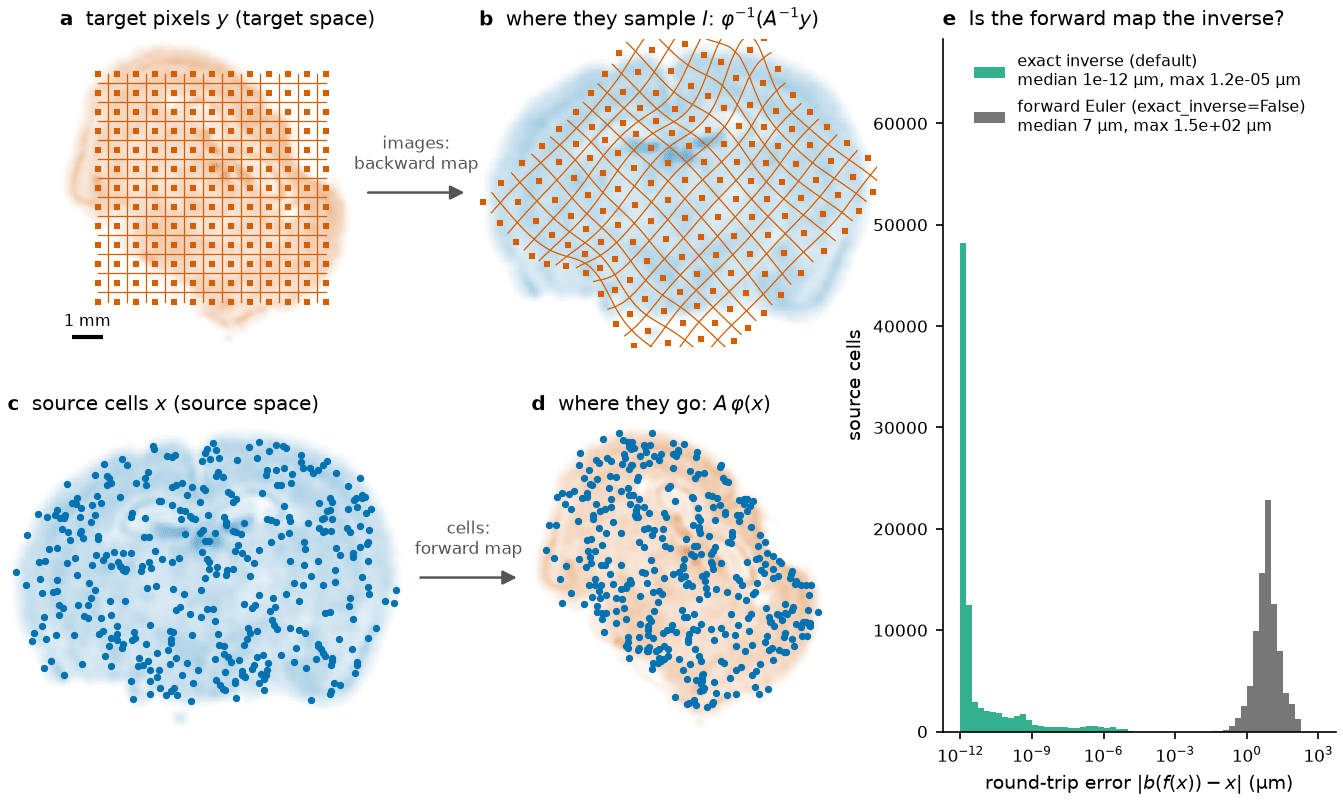
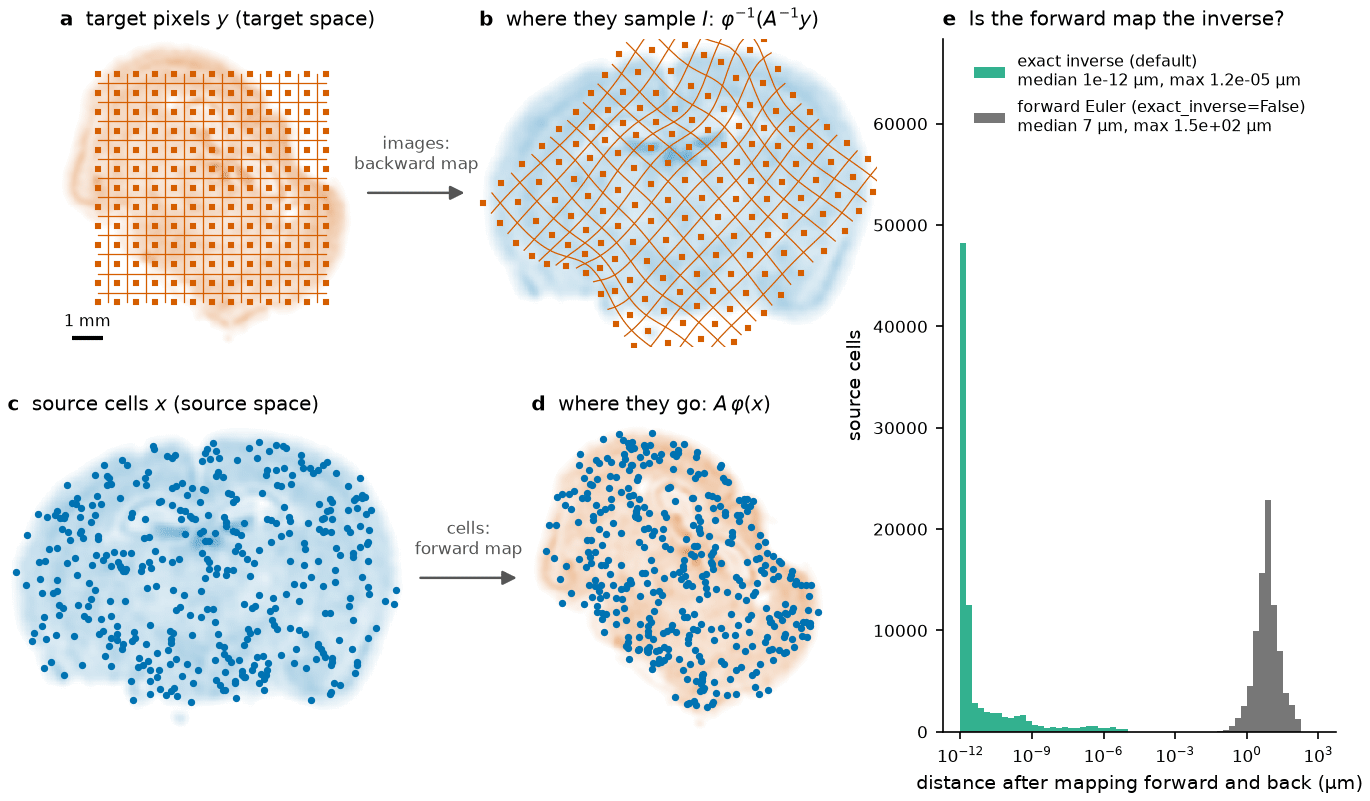
Label the round-trip axis of the maps figure in words
The label |b(f(x)) - x| reused f, which the page uses for the contrast function.

diff --git a/docs/figures/make_figures.py b/docs/figures/make_figures.py
@@ -775,7 +775,7 @@ def fig_maps(d):
     arrow_between(fig, ax3, ax4, text='cells:\nforward map')
     scalebar(ax, loc=(0.04, 0.03))
 
-    # round trip |b(f(x)) - x| over all source cells, exact inverse vs forward Euler
+    # round trip (forward map, then backward map) over all source cells, exact inverse vs forward Euler
     h = fig.add_subplot(gs[:, 2])
     allP = d.cells_I()
     floor = 1e-12
@@ -790,7 +790,7 @@ def fig_maps(d):
         print(f'  round trip, exact_inverse={exact}: median {np.median(e):.3g} um, max {e.max():.3g} um')
     h.set_xscale('log')
     h.set_xticks([1e-12, 1e-9, 1e-6, 1e-3, 1, 1e3])
-    h.set_xlabel(r'round-trip error $|b(f(x)) - x|$ (µm)')
+    h.set_xlabel(r'distance after mapping forward and back (µm)')
     h.set_ylabel('source cells')
     h.set_ylim(0, h.get_ylim()[1] * 1.35)
     h.legend(frameon=False, loc='upper center', fontsize=7.5)
